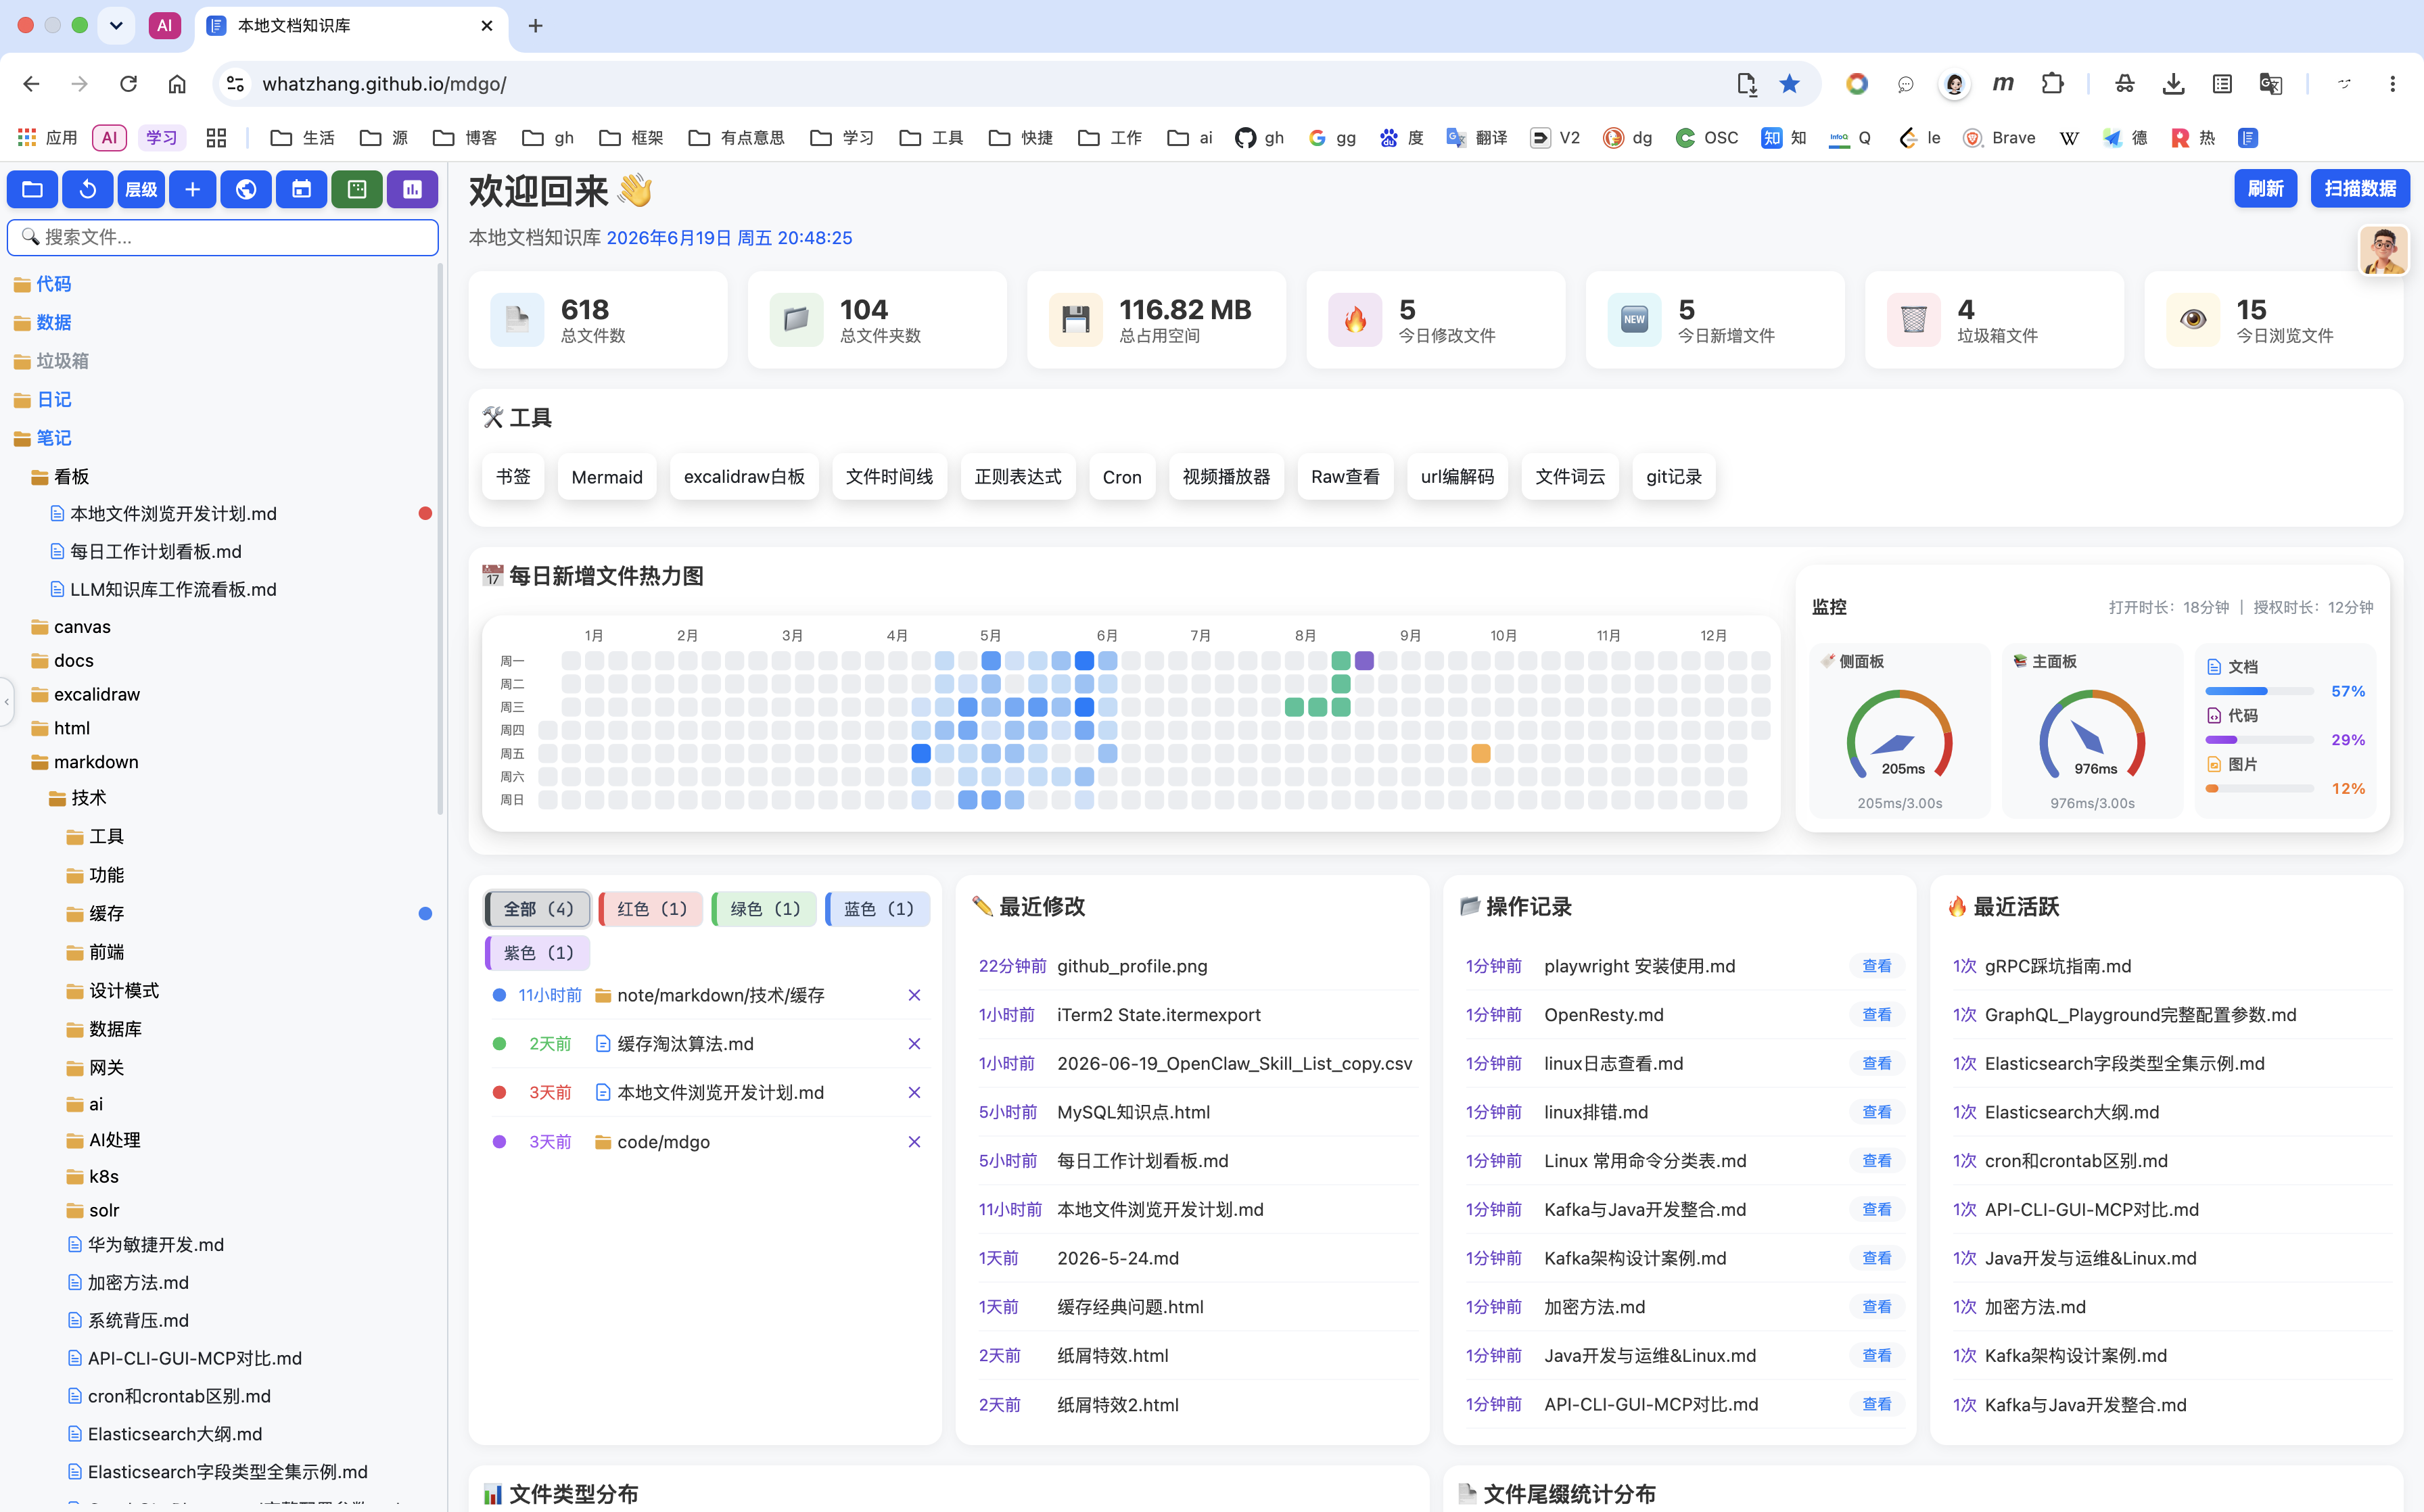
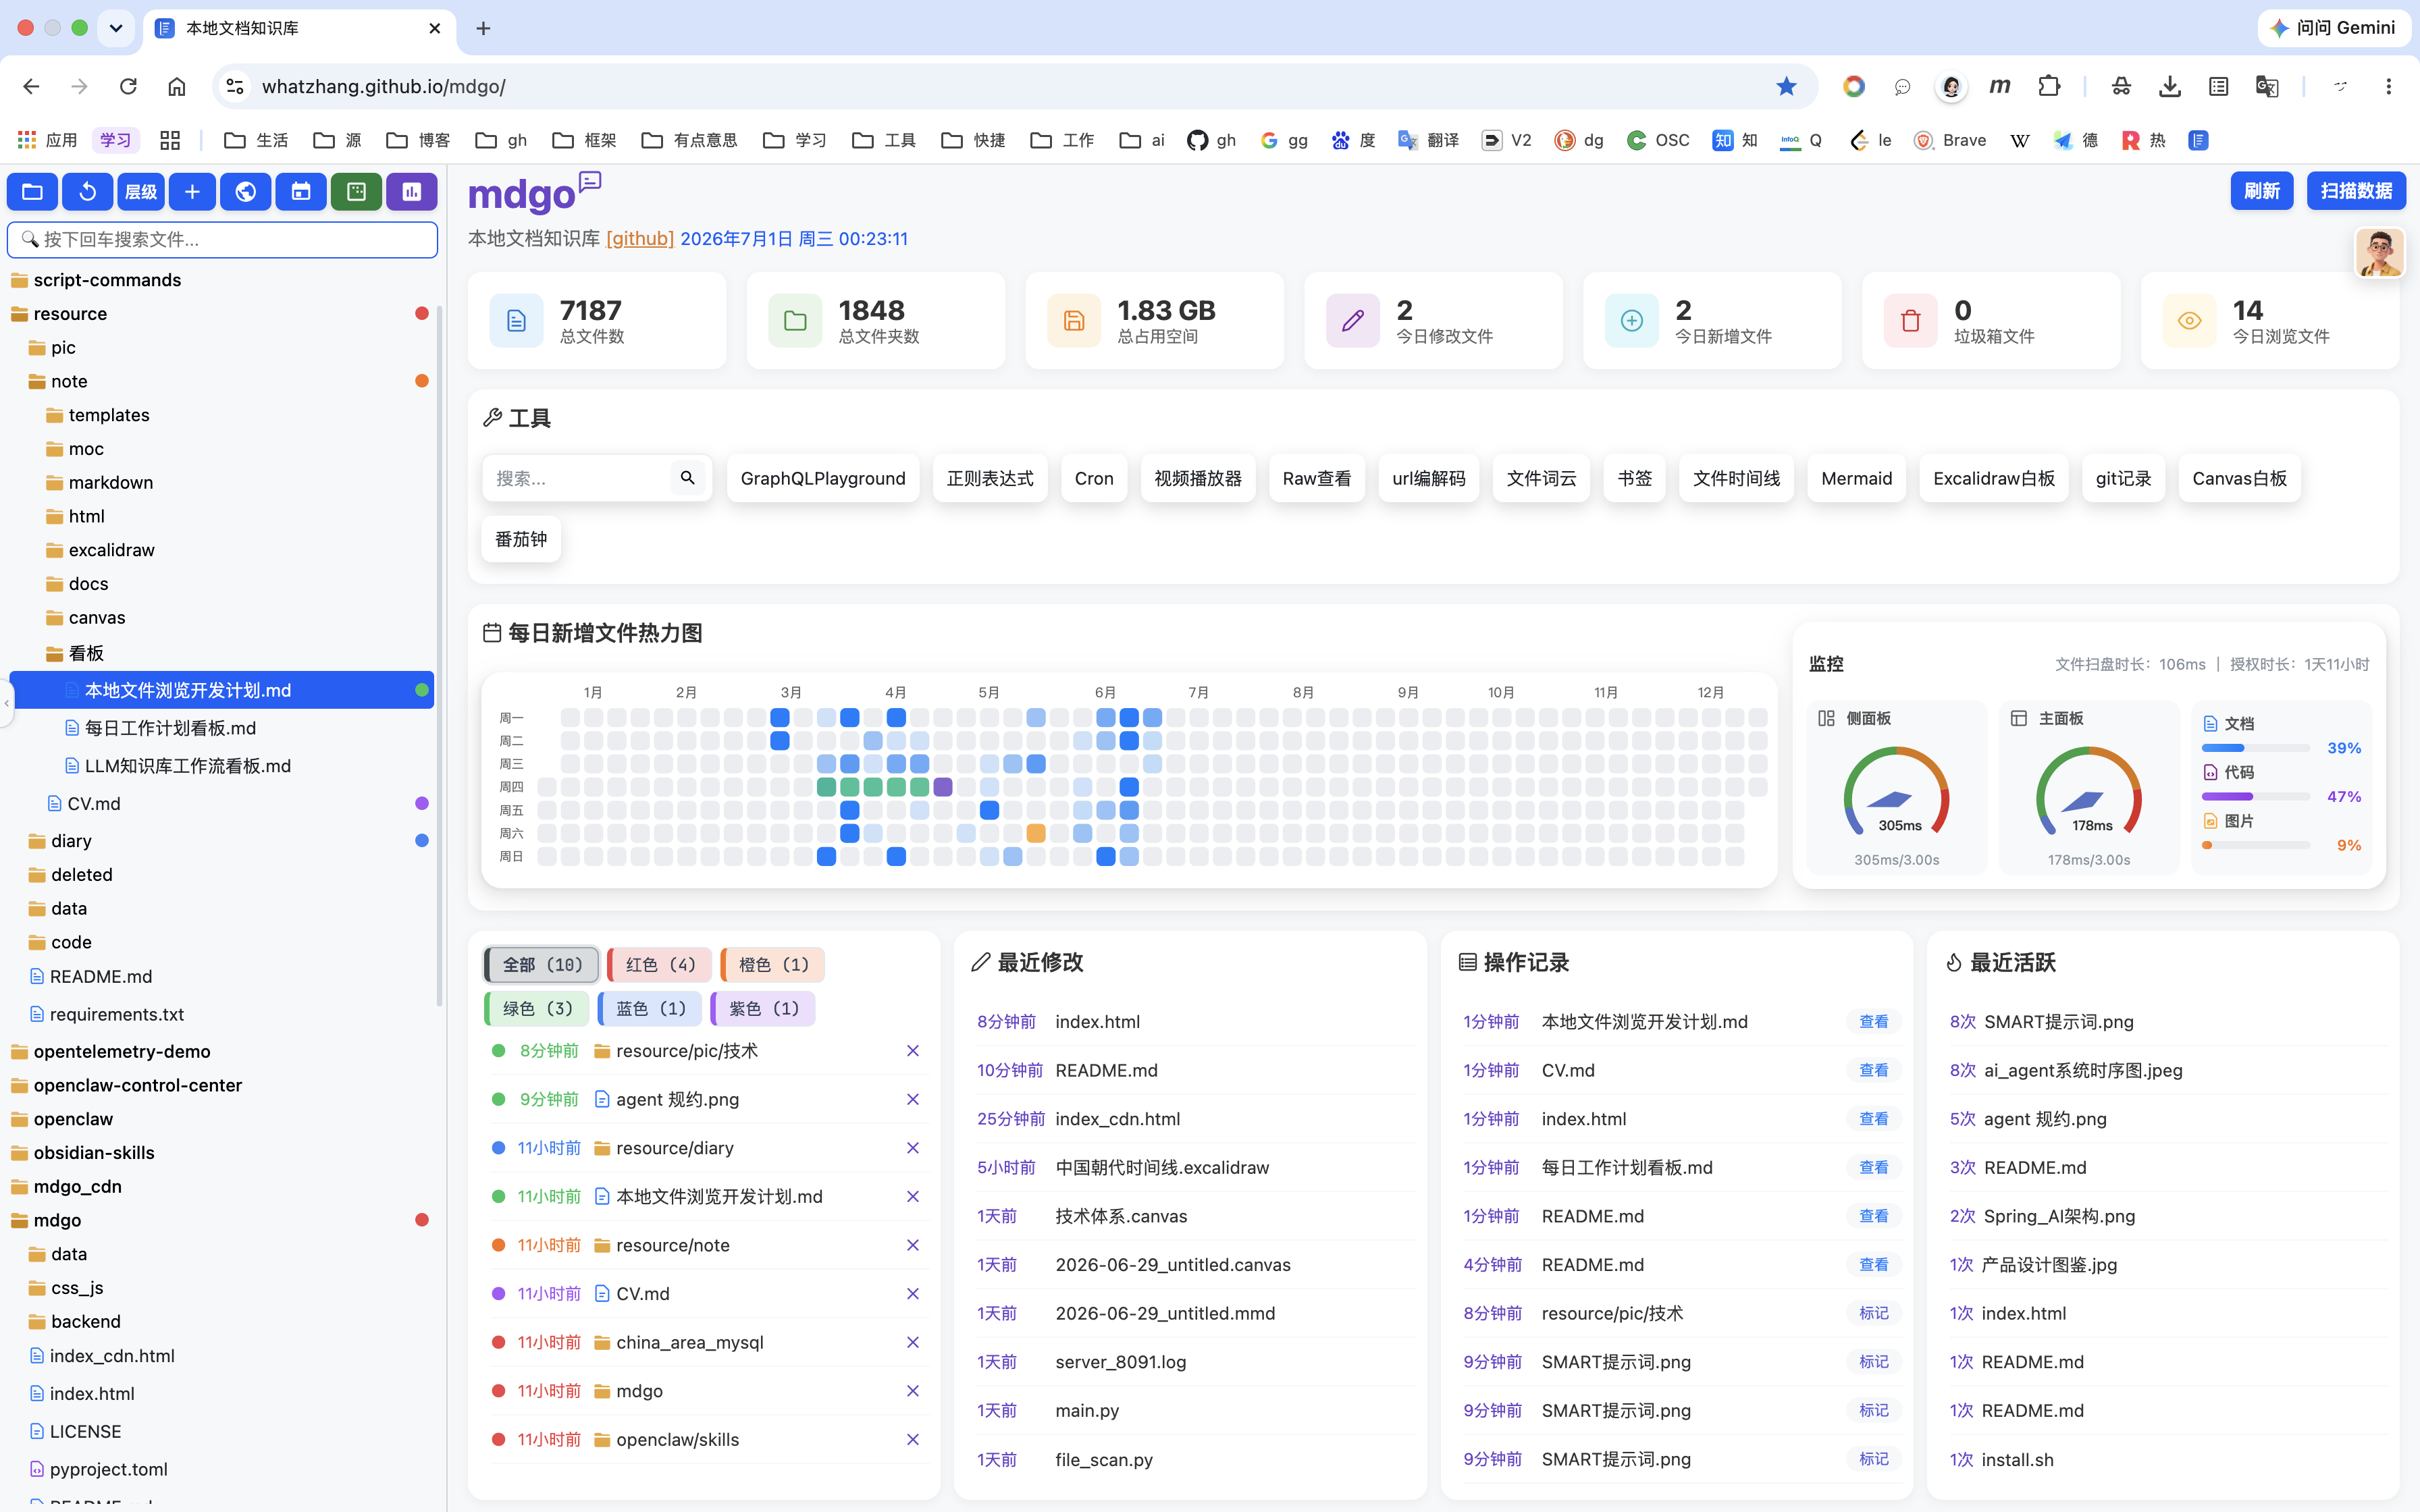
feat: 更新 README.md 文件内容，优化描述并调整图片展示；修改按钮样式，调整 padding 值

diff --git a/index.html b/index.html
@@ -4162,7 +4162,7 @@
         }
 
         .marker-tab-btn {
-            padding: 4px 10px;
+            padding: 4px 8px;
             font-size: 12px;
             border: 1px solid #e2e8f0;
             border-radius: 6px;

diff --git a/index_cdn.html b/index_cdn.html
@@ -4164,7 +4164,7 @@
         }
 
         .marker-tab-btn {
-            padding: 4px 10px;
+            padding: 4px 8px;
             font-size: 12px;
             border: 1px solid #e2e8f0;
             border-radius: 6px;

diff --git a/README.md b/README.md
@@ -1,8 +1,13 @@
-## mdgo - 本地文档知识库
+<div align="center">
 
-一款轻量级本地知识库工具，支持 Markdown、HTML、思维导图、OPML 文档的预览编辑，提供丰富的文件格式支持、图表工具、系统监控和 AI 辅助功能。
+# 📚 mdgo · 本地文档知识库
 
-![](css_js/snipaste.png) 
+**一款轻量级、零依赖的本地知识库工具，把 Markdown、图表、图片、思维导图、白板、OPML、简单AI辅助全部装进一个浏览器标签页。**
+</div>
+
+<div align="center">
+  <img src="css_js/snipaste.png" alt="mdgo 预览" width="90%" />
+</div>
 
 ### 文件格式支持
 